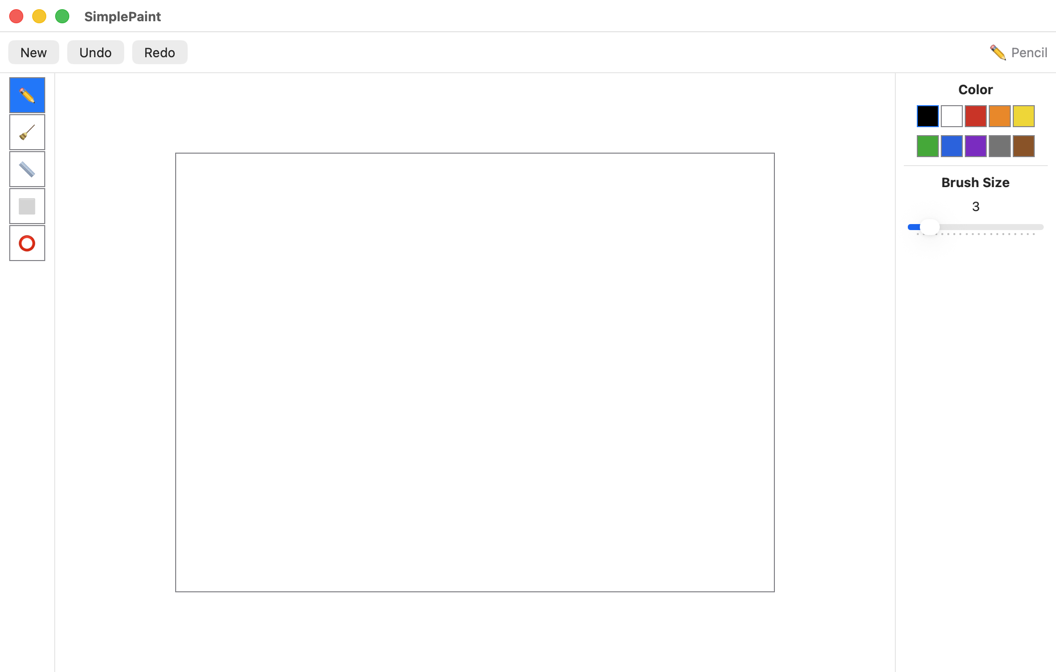
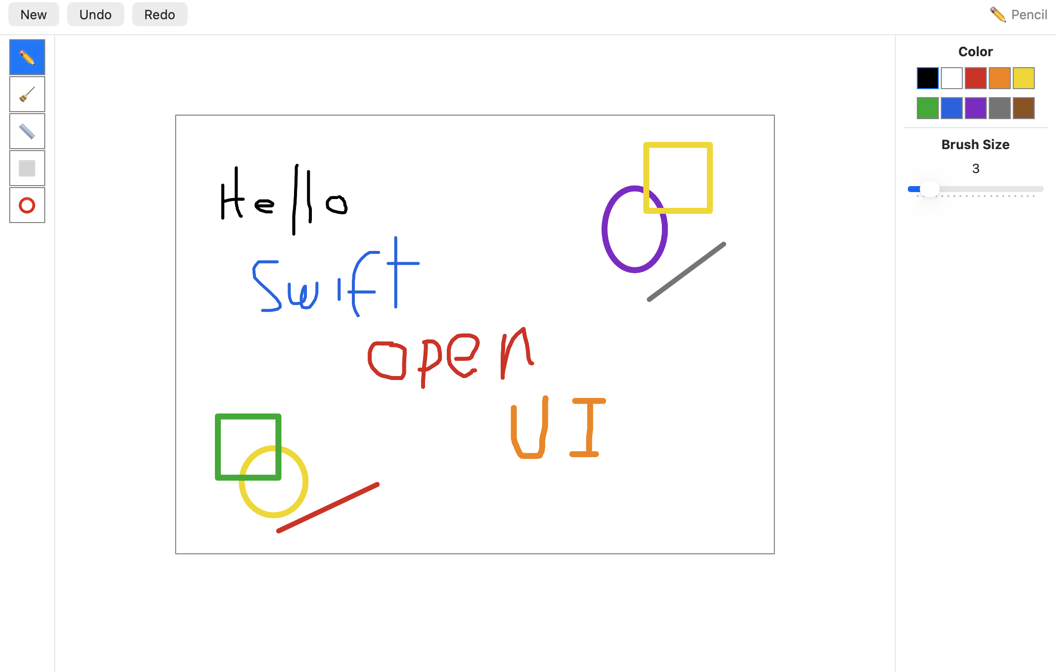
Update docs for SimplePaint: README, CLAUDE.md, guides, screenshot
Add SimplePaint to showcase lists, run commands, and example tables.
Update test count to 268. Add Path/StrokeStyle/Shading to views list.
Add SimplePaint screenshot to README hero section.

diff --git a/CLAUDE.md b/CLAUDE.md
@@ -8,7 +8,7 @@ Cross-platform SwiftUI framework — write SwiftUI, run anywhere.
 - `Sources/Backend/GTK4/` — Linux backend (GTK4): CGTK system module, CGTKBridge interop, Rendering
 - `Sources/Backend/Win32/` — Windows backend (Win32): CWin32, CWin32Bridge, Rendering + LayoutEngine
 - `Sources/Backend/Web/` — Web/Wasm backend (experimental): DOM rendering via JavaScriptKit
-- `Examples/Showcase/` — Polished demo apps (HelloWorld, Stopwatch, ColorMixer, Calculator)
+- `Examples/Showcase/` — Polished demo apps (HelloWorld, Stopwatch, ColorMixer, Calculator, SimplePaint)
 - `Examples/Parity/` — Matrix-backed coverage examples (11 parity targets)
 - `Tests/SwiftOpenUITests/` — Core tests (platform-independent)
 - `Tests/BackendTests/` — Platform-specific backend tests
@@ -26,7 +26,7 @@ Cross-platform SwiftUI framework — write SwiftUI, run anywhere.
 ```bash
 # macOS (uses real SwiftUI for examples)
 swift build
-swift test                   # 256 tests
+swift test                   # 268 tests
 
 # WebAssembly (requires open-source Swift toolchain, not Xcode's)
 source ~/.swiftly/env.sh     # activate swiftly-managed toolchain
@@ -36,6 +36,7 @@ swift build --swift-sdk swift-6.2.4-RELEASE_wasm
 swift run HelloWorld
 swift run Stopwatch
 swift run ColorMixer
+swift run SimplePaint
 swift run ParityViewsBasic
 
 # Run in browser (Wasm)
@@ -78,7 +79,7 @@ npx serve .build/plugins/PackageToJS/outputs/Package
 ## Current Views & Modifiers
 
 ### Views (Sources/SwiftOpenUI/Views/)
-Text, Button, TextField, SecureField, TextEditor, Toggle, Slider, Stepper, Picker, DatePicker, ProgressView, Label, Link, ScrollView, List, Image, VStack, HStack, ZStack, Spacer, Divider, Color, Group, ForEach, AnyView, EmptyView, TabView, Grid, GridRow, Form, Section, DisclosureGroup, LazyVStack, LazyHStack, LazyVGrid, LazyHGrid, Menu, Canvas, GeometryReader, NavigationSplitView, ConfirmationDialog
+Text, Button, TextField, SecureField, TextEditor, Toggle, Slider, Stepper, Picker, DatePicker, ProgressView, Label, Link, ScrollView, List, Image, VStack, HStack, ZStack, Spacer, Divider, Color, Group, ForEach, AnyView, EmptyView, TabView, Grid, GridRow, Form, Section, DisclosureGroup, LazyVStack, LazyHStack, LazyVGrid, LazyHGrid, Menu, Canvas, GeometryReader, NavigationSplitView, ConfirmationDialog, Path (with StrokeStyle, Shading)
 
 ### Navigation (Sources/SwiftOpenUI/Navigation/)
 NavigationStack, NavigationLink, NavigationSplitView, NavigationPath, .navigationTitle(), .navigationDestination(for:), NavigateAction (environment)
@@ -105,7 +106,7 @@ NavigationStack, NavigationLink, NavigationSplitView, NavigationPath, .navigatio
 
 ## Examples
 
-- Showcase: HelloWorld, Stopwatch, ColorMixer, Calculator (in `Examples/Showcase/`)
+- Showcase: HelloWorld, Stopwatch, ColorMixer, Calculator, SimplePaint (in `Examples/Showcase/`)
 - Parity: ParityViewsBasic, ParityViewsLayout, ParityViewsContainers, ParityModifiers, ParityStateData, ParityNavigation, ParityEnvironment, ParityGestures, ParityAnimation, ParityFocus, ParityAppStructure (in `Examples/Parity/`)
 - Plan: `docs/guides/examples-plan.md` — two-track Showcase + Parity design
 - **Rules**: single `main.swift` per example, compiles and runs on all platforms (Android exception: uses flat views in JNIBridge.swift due to import conflict — see `docs/guides/examples-plan.md`), platform limitations labeled inline with fallback text (never build errors)
@@ -125,6 +126,8 @@ NavigationStack, NavigationLink, NavigationSplitView, NavigationPath, .navigatio
 | `docs/architecture/android-backend-design.md` | Android backend design (batched JNI diffs) |
 | `docs/porting/platform-notes.md` | Platform quirks: macOS, Linux, Windows, Web, Android |
 | `docs/issues/observable-namespace-conflict.md` | ObservableObject/Published clash on macOS |
+| `docs/plans/simplepaint-example.md` | SimplePaint example design and scope |
+| `docs/proposals/unified-canvas-api.md` | Unified Canvas API proposal (Path, Shading, StrokeStyle) |
 
 ## Reference Projects
 

diff --git a/README.md b/README.md
@@ -8,11 +8,17 @@ A cross-platform SwiftUI framework that renders natively on macOS, Linux, Window
 
 | macOS (SwiftUI) | Linux (GTK4) |
 |:---:|:---:|
-| <img src="screenshots/macos/showcase-ColorMixer.png" width="380"> | <img src="screenshots/linux/showcase-ColorMixer.png" width="380"> |
+| <img src="screenshots/macos/showcase-ColorMixer.png" width="320"> | <img src="screenshots/linux/showcase-ColorMixer.png" width="320"> |
 | **Windows (Win32)** | **Web (Wasm)** |
-| <img src="screenshots/windows/showcase-ColorMixer.png" width="380"> | <img src="screenshots/web/showcase-ColorMixer.png" width="380"> |
+| <img src="screenshots/windows/showcase-ColorMixer.png" width="320"> | <img src="screenshots/web/showcase-ColorMixer.png" width="320"> |
 
 > Same Swift code. Native rendering on each platform. No electron, no webview wrappers.
+
+## SimplePaint — Canvas, Path, and gesture input
+
+<img src="screenshots/macos/showcase-SimplePaint.png" width="640">
+
+A MacPaint-class drawing app with pencil, eraser, line, rectangle, and ellipse tools. Demonstrates Canvas rendering, Path-based drawing, drag gestures, and undo/redo — all from a single `main.swift`.
 
 ## Platform Support
 
@@ -35,6 +41,7 @@ cd SwiftOpenUI
 swift run HelloWorld
 swift run Stopwatch
 swift run ColorMixer
+swift run SimplePaint
 
 # Run on Linux (GTK4)
 sudo apt install libgtk-4-dev
@@ -58,6 +65,7 @@ Polished mini-apps demonstrating what you can build:
 | Stopwatch | `swift run Stopwatch` | Timer, start/stop, lap times |
 | ColorMixer | `swift run ColorMixer` | Color picker with sliders, swatches, harmony |
 | Calculator | `swift run Calculator` | Grid/GridRow calculator with arithmetic logic |
+| SimplePaint | `swift run SimplePaint` | Drawing app with tools, color palette, undo/redo |
 
 ### Parity
 
@@ -80,7 +88,7 @@ swift run ParityAppStructure      # App, Scene, WindowGroup, @ViewBuilder
 ## What's Implemented
 
 ### Views (43 of 44)
-Text, Button, TextField, Toggle, Slider, Image, Color, Spacer, Divider, VStack, HStack, ZStack, Group, ForEach, List, ScrollView, AnyView, EmptyView, NavigationStack, NavigationLink, SecureField, TextEditor, ProgressView, Stepper, Label, Link, TabView, Grid, GridRow, DisclosureGroup, Form, Section, LazyVStack, LazyHStack, LazyVGrid, LazyHGrid, Picker, DatePicker, GeometryReader, Menu, ConfirmationDialog, Canvas, NavigationSplitView
+Text, Button, TextField, Toggle, Slider, Image, Color, Spacer, Divider, VStack, HStack, ZStack, Group, ForEach, List, ScrollView, AnyView, EmptyView, NavigationStack, NavigationLink, SecureField, TextEditor, ProgressView, Stepper, Label, Link, TabView, Grid, GridRow, DisclosureGroup, Form, Section, LazyVStack, LazyHStack, LazyVGrid, LazyHGrid, Picker, DatePicker, GeometryReader, Menu, ConfirmationDialog, Canvas, NavigationSplitView, Path
 
 ### Modifiers (36 of 38)
 .padding(), .frame(), .foregroundColor(), .foregroundStyle(), .background(), .font(), .border(), .opacity(), .offset(), .scaleEffect(), .animation(), .imageScale(), .onTapGesture(), .onLongPressGesture(), .onDrag(), .environmentObject(), .environment(), .navigationTitle(), .navigationDestination(), .focused(), .modifier(), withAnimation(), .cornerRadius(), .shadow(), .rotationEffect(), .overlay(), .sheet(), .alert(), .confirmationDialog(), .onAppear(), .searchable(), .toolbar(), .gridCellColumns(), .pickerStyle(), .navigationSplitViewColumnWidth(), .onDisappear()

diff --git a/docs/guides/examples-plan.md b/docs/guides/examples-plan.md
@@ -22,7 +22,7 @@ Examples/
 │   ├── Stopwatch/main.swift     # target: Stopwatch (replaces Counter)
 │   ├── ColorMixer/main.swift    # target: ColorMixer
 │   ├── Calculator/main.swift    # target: Calculator
-│   └── PaintApp/main.swift      # target: PaintApp (future, needs Canvas)
+│   └── SimplePaint/main.swift   # target: SimplePaint
 │
 ├── Parity/                      # Maps to parity matrix sections
 │   ├── ViewsBasic/main.swift    # target: ParityViewsBasic
@@ -162,12 +162,10 @@ Redesign as a "Color Studio" — visually presentable like a Photoshop/Figma col
 **Features:** Grid/GridRow, .gridCellColumns(2), ZStack, Button, @State, .font(), .foregroundColor(), .background(), .frame()
 iOS-style calculator — dark theme, orange operator keys, 5×4 grid layout with wide zero button, full arithmetic logic. Uses ZStack { Color; Text } for full-bleed button backgrounds with centered labels.
 
-### PaintApp (future)
-**Target:** `PaintApp`
-**Requires:** Canvas rendering on backends
-**Reference:** SwiftLinuxUI repo, `Examples/PaintApp/main.swift`
-**Features:** Canvas, .onDrag(), @State, Color palette, brush size selection
-Drawing app — drag to paint strokes, pick colors and brush sizes. Borrowed from SwiftLinuxUI's PaintApp. Depends on Canvas view having backend rendering (currently core-defined, no backend renderers yet).
+### SimplePaint — Done
+**Target:** `SimplePaint`
+**Features:** Canvas, Path, .onDrag(), @State, @Binding, Color palette, brush size Slider, undo/redo
+Drawing app with pencil, eraser, line, rectangle, and ellipse tools. Three-panel layout (tool strip, canvas, inspector). Uses shared `buildStrokePath()` with Path type across all platforms. See `docs/plans/simplepaint-example.md` for design.
 
 ## Migration Status
 

diff --git a/docs/guides/running-examples.md b/docs/guides/running-examples.md
@@ -15,6 +15,7 @@ Each example is a single `main.swift` using `#if os(macOS) import SwiftUI` for r
 swift run HelloWorld
 swift run Stopwatch
 swift run ColorMixer
+swift run SimplePaint
 
 # Parity
 swift run ParityViewsBasic
@@ -81,6 +82,7 @@ sudo apt install libgtk-4-dev
 swift run HelloWorld
 swift run Stopwatch
 swift run ColorMixer
+swift run SimplePaint
 
 # Parity
 swift run ParityViewsBasic
@@ -149,6 +151,7 @@ See [android-setup.md](android-setup.md) for full setup instructions.
 | Stopwatch | `Stopwatch` | Timer, ObservableObject, start/stop/lap |
 | ColorMixer | `ColorMixer` | Sliders, color swatches, harmony, dark theme |
 | Calculator | `Calculator` | Grid/GridRow, .gridCellColumns, ZStack, @State |
+| SimplePaint | `SimplePaint` | Canvas, Path, .onDrag(), tools, color palette, undo/redo |
 
 ### Parity
 

diff --git a/docs/guides/getting-started.md b/docs/guides/getting-started.md
@@ -32,7 +32,7 @@ cd apple/Examples && xcodegen generate
 open Examples.xcodeproj
 ```
 
-Select any scheme (HelloWorld, Stopwatch, ColorMixer, ParityViewsBasic, etc.) and press Cmd+R.
+Select any scheme (HelloWorld, Stopwatch, ColorMixer, SimplePaint, ParityViewsBasic, etc.) and press Cmd+R.
 
 The generated `.xcodeproj` is not committed — each developer generates it locally. If you add or rename an example, update `apple/Examples/project.yml` and re-run `xcodegen generate`.
 
@@ -87,7 +87,7 @@ swift run ColorMixer
 swift run ParityViewsBasic
 ```
 
-All 14 examples (3 Showcase + 11 Parity) work on Linux.
+All 16 examples (5 Showcase + 11 Parity) work on Linux.
 
 ### Notes
 
